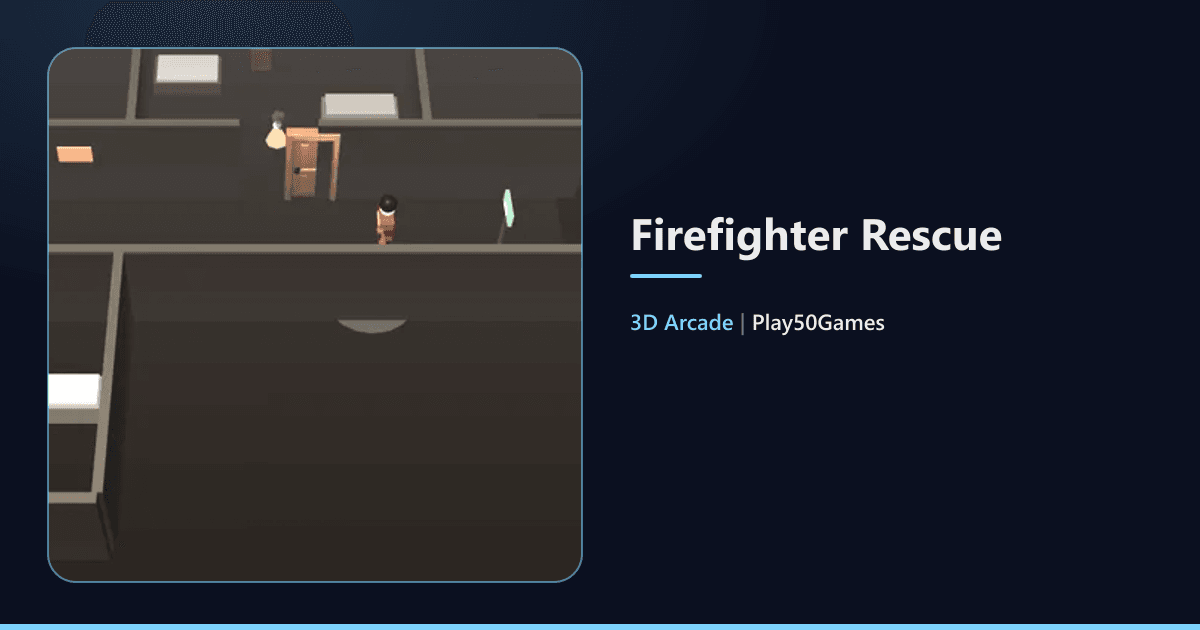
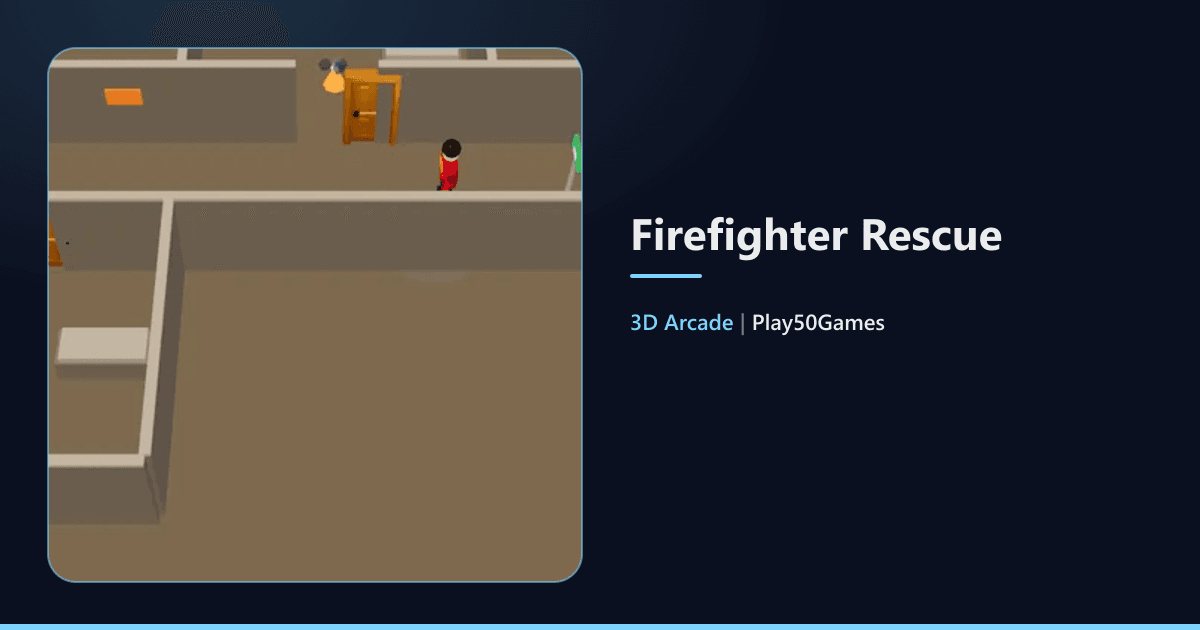
firefighter-rescue: brighter rooms, fog pushed back, phone camera fits the long building, thumbnail and OG re-shot

diff --git a/play50games-frontend/src/arcade3d/games/firefighter-rescue/looks.ts b/play50games-frontend/src/arcade3d/games/firefighter-rescue/looks.ts
@@ -8,11 +8,11 @@ import { LEVELS, type FireLevel } from "./levels";
 import { DOOR_HALF, HALL_HALF, PORCH_Z, ROOM_DEEP, ROOM_LEN, doorMidZ } from "./rules";
 
 export const COLORS = {
-   wall: "#44403c",
-   wallTrim: "#57534e",
-   floor: "#292524",
-   floorLine: "#44403c",
-   street: "#1c1917",
+   wall: "#78716c",
+   wallTrim: "#a8a29e",
+   floor: "#6b6258",
+   floorLine: "#857a6d",
+   street: "#4b4540",
    ember: "#f97316",
    emberCore: "#fdba74",
    smoke: "#78716c",
@@ -81,6 +81,12 @@ export function viewFor(id: LevelId): FittedViewOptions {
          padding: 8,
          shift: true,
          fov: FOV,
+         // the building is long and narrow: on a phone no distance keeps it clear of the HUD, the stick and the cookie
+         // banner (the fit gave up at its 500 m cap and drew nothing), so it frames the whole building and the
+         // HUD overlays it, as the follow camera keeps the firefighter in the open middle
+         avoidHud: false,
+         avoidControls: false,
+         avoidObstructions: false,
       };
       VIEWS.set(id, view);
    }

diff --git a/play50games-frontend/src/arcade3d/games/firefighter-rescue/index.tsx b/play50games-frontend/src/arcade3d/games/firefighter-rescue/index.tsx
@@ -44,7 +44,7 @@ const definition: GameDefinition<FireLevel> = {
    camera: { position: [0, 16, 18], fov: FOV, lookAt: look },
    environment: {
       background: LEVELS[1].background,
-      fog: [LEVELS[1].background, 14, 36],
+      fog: [LEVELS[1].background, 90, 260],
       lighting: LEVELS[1].lighting,
    },
    touchControls: ["joystick", "action", "jump"],
@@ -60,7 +60,7 @@ const definition: GameDefinition<FireLevel> = {
          durationMs: level.durationMs,
          environment: {
             background: level.background,
-            fog: [level.background, 14, 36],
+            fog: [level.background, 90, 260],
             lighting: level.lighting,
          },
       };

diff --git a/play50games-frontend/src/arcade3d/games/firefighter-rescue/Scene.tsx b/play50games-frontend/src/arcade3d/games/firefighter-rescue/Scene.tsx
@@ -295,6 +295,9 @@ function LevelScene() {
             shift={view.shift}
             damping={DAMPING}
          />
+         {/* extra fill so the rooms and the firefighter read clearly (the core indoor/night light is dim; the fire glow keeps the mood) */}
+         <hemisphereLight args={["#ffe9cf", "#7a6d62", config.lighting === "night" ? 1.5 : 1.1]} />
+         <ambientLight intensity={config.lighting === "night" ? 0.7 : 0.45} />
          <mesh rotation-x={-Math.PI / 2} position={[0, 0, (zEnd - 5.2) / 2]}>
             <planeGeometry args={[16, zEnd + 8]} />
             <meshStandardMaterial color={COLORS.floor} roughness={0.92} />
